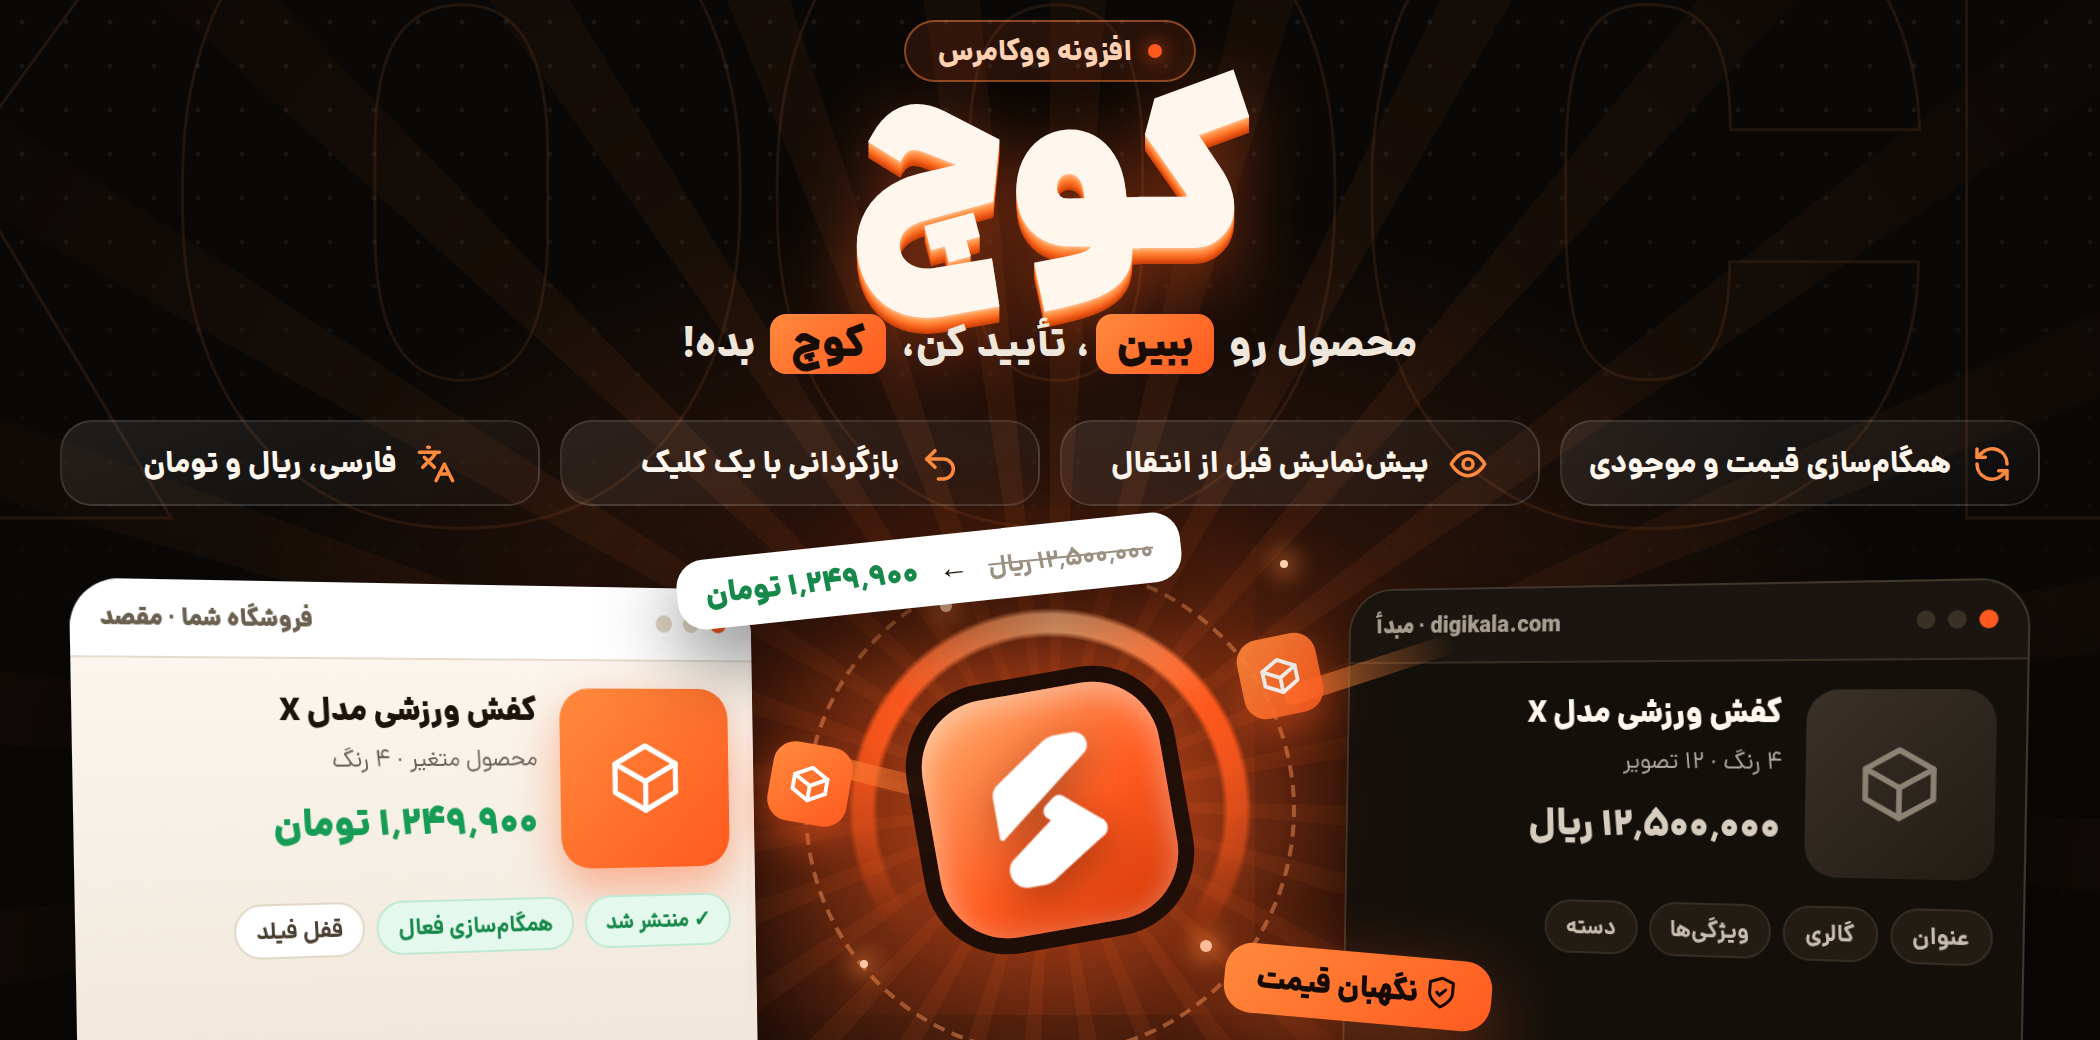
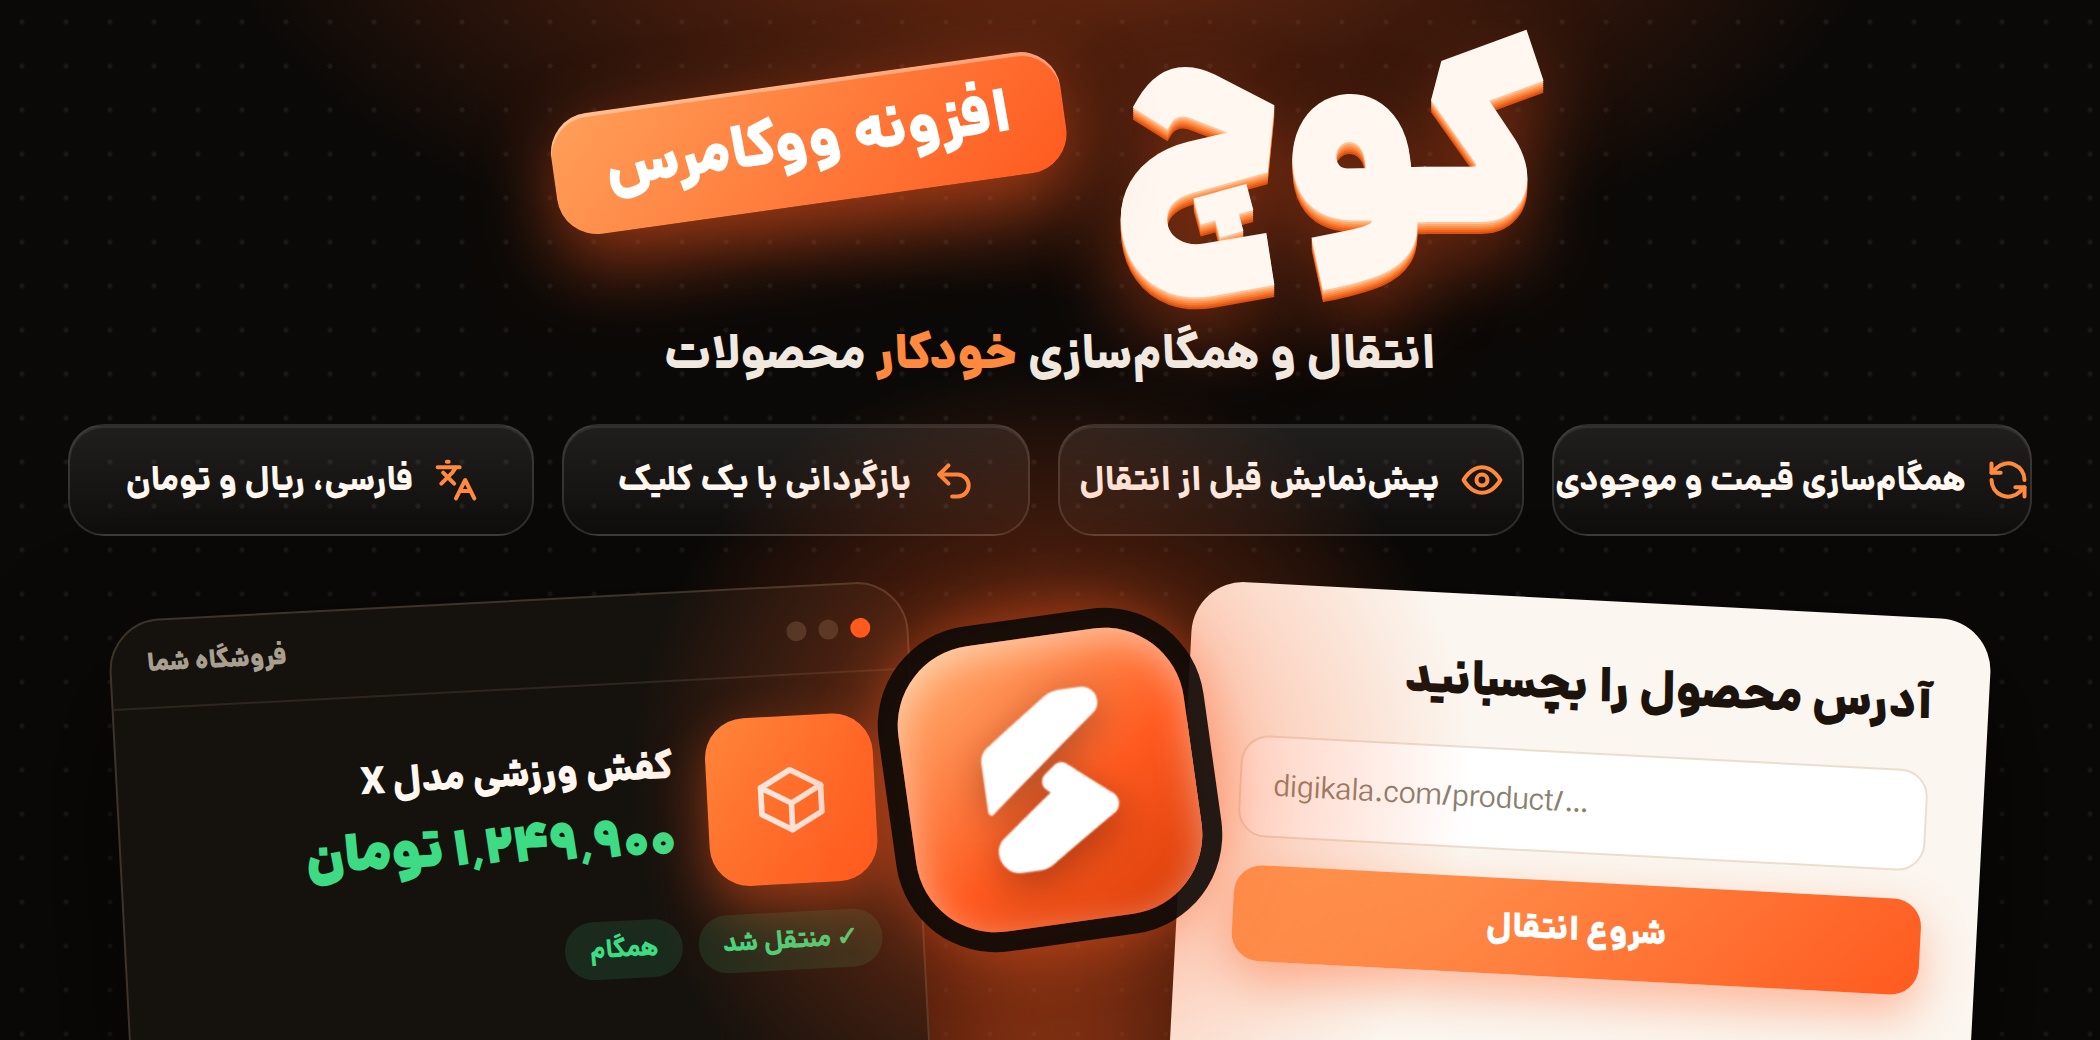
Kooch thumbnail: simpler, bolder version of the original layout
Claude-Session: https://claude.ai/code/session_01HjGiyHhZHcoV6ExRpRRqKD

diff --git a/kooch-showcase/thumbnail.html b/kooch-showcase/thumbnail.html
@@ -1,86 +1,54 @@
 <!doctype html><html lang="fa" dir="rtl"><head><meta charset="utf-8"><title>کوچ | تامنیل</title>
 <style>
 @font-face{font-family:Dana;src:url(DanaVF.ttf);font-weight:100 1000}
-:root{--o:#ff5a1f;--o2:#ff8a3d;--bg:#0a0806;--line:#372e23;--tx:#fff6ee;--mu:#a89f91;--ok:#3ddc84}
+:root{--o:#ff5a1f;--o2:#ff8a3d;--bg:#0b0907;--tx:#fff7f0;--mu:#a89f91;--ok:#22c56b}
 *{box-sizing:border-box;margin:0;padding:0}
 body{background:#000;font-family:Dana,Tahoma,sans-serif;color:var(--tx)}
-.i{width:1.15em;height:1.15em;vertical-align:-.22em;fill:none;stroke:currentColor;stroke-width:2.1;stroke-linecap:round;stroke-linejoin:round}
-.t{width:1050px;height:520px;position:relative;overflow:hidden;background:var(--bg)}
-.rays{position:absolute;left:50%;top:400px;width:1800px;height:1800px;margin:-900px 0 0 -900px;background:repeating-conic-gradient(from 0deg,rgba(255,120,50,.10) 0 4deg,transparent 4deg 13deg);-webkit-mask:radial-gradient(circle,#000 0,rgba(0,0,0,.6) 25%,transparent 55%);mask:radial-gradient(circle,#000 0,rgba(0,0,0,.6) 25%,transparent 55%)}
-.glow{position:absolute;left:50%;top:400px;width:900px;height:600px;margin:-300px 0 0 -450px;background:radial-gradient(closest-side,rgba(255,90,31,.55),rgba(255,90,31,.12) 55%,transparent)}
-.grid{position:absolute;inset:0;background:radial-gradient(rgba(255,255,255,.07) 1.2px,transparent 1.4px) 0 0/22px 22px;-webkit-mask:linear-gradient(#000,transparent 70%);mask:linear-gradient(#000,transparent 70%)}
-.wm{position:absolute;top:-70px;left:50%;transform:translateX(-50%);font-size:420px;font-weight:950;line-height:1;color:transparent;-webkit-text-stroke:1.5px rgba(255,138,61,.10);white-space:nowrap;letter-spacing:-8px}
-.head{position:absolute;top:10px;left:0;right:0;text-align:center}
-.eyebrow{display:inline-flex;align-items:center;gap:8px;font-size:14.5px;font-weight:800;color:#ffd2b3;border:1px solid rgba(255,138,61,.45);background:rgba(255,90,31,.12);padding:4px 16px;border-radius:99px}
-.eyebrow::before{content:"";width:7px;height:7px;border-radius:50%;background:var(--o);box-shadow:0 0 10px var(--o)}
-h1{font-size:104px;font-weight:950;line-height:1.12;letter-spacing:-2px;color:var(--tx);text-shadow:0 1px 0 #ffb27a,0 2px 0 #ff9a55,0 3px 0 #ff8a3d,0 4px 0 #ff7a30,0 5px 0 #f76a22,0 6px 0 #ee5c18,0 7px 0 #e04f10,0 8px 0 #cf440b,0 14px 40px rgba(255,90,31,.55);margin-top:-4px}
-.sub{font-size:21px;font-weight:800;color:#efe7dc;margin-top:4px}
-.sub b{color:#1a0d05;background:linear-gradient(135deg,var(--o2),var(--o));padding:0 10px;border-radius:8px;margin:0 3px}
-.feats{position:absolute;top:210px;left:30px;right:30px;display:flex;gap:10px}
-.f{flex:1;display:flex;align-items:center;justify-content:center;gap:10px;padding:10px 12px;border-radius:16px;background:linear-gradient(160deg,rgba(255,255,255,.09),rgba(255,255,255,.02));border:1px solid rgba(255,255,255,.12);font-size:15px;font-weight:800;white-space:nowrap}
-.f .i{color:var(--o2);width:20px;height:20px}
-/* panels */
-.p{position:absolute;top:292px;width:350px;height:260px;border-radius:24px;overflow:hidden;box-shadow:0 30px 70px rgba(0,0,0,.75)}
-.src{right:40px;background:#13100c;border:1px solid #40362a;transform:perspective(900px) rotateY(-14deg) rotate(1deg)}
-.dst{left:40px;background:linear-gradient(180deg,#fdf8f1,#efe6d9);color:#1b130c;transform:perspective(900px) rotateY(14deg) rotate(-1deg)}
-.bar{display:flex;gap:6px;align-items:center;padding:10px 14px;font-size:12px;font-weight:700}
-.src .bar{background:#1a1510;border-bottom:1px solid var(--line);color:var(--mu)}
-.dst .bar{background:#fff;border-bottom:1px solid #e6dccd;color:#6b604f}
-.bar i{width:9px;height:9px;border-radius:50%;background:#3a3126}.bar i:first-child{background:var(--o)}.dst .bar i{background:#e0d5c5}.dst .bar i:first-child{background:var(--o)}
-.bar b{margin-inline-start:auto}
-.pb{padding:14px;display:flex;gap:12px}
-.im{width:92px;height:92px;border-radius:16px;flex:none;display:grid;place-items:center}
-.im .i{width:44px;height:44px;stroke-width:1.5}
-.src .im{background:linear-gradient(135deg,#3a3128,#221c15);color:#8d8374}
-.dst .im{background:linear-gradient(135deg,var(--o2),var(--o));color:#fff;box-shadow:0 10px 24px rgba(255,90,31,.45)}
-.nm{font-size:16px;font-weight:900}.mt{font-size:12px;margin-top:4px;opacity:.65}
-.pr{font-size:19px;font-weight:900;margin-top:10px}
-.src .pr{color:#d6cdbf}.dst .pr{color:#169c55}
-.tags{display:flex;flex-wrap:wrap;gap:6px;padding:0 14px}
-.tags span{font-size:11.5px;font-weight:700;padding:4px 10px;border-radius:99px}
-.src .tags span{background:#221c15;border:1px solid var(--line);color:#c9bfb1}
-.dst .tags span{background:#fff;border:1px solid #e3d8c8;color:#4a3f31}
-.dst .tags span.g{background:#e5f8ee;border-color:#bfe9d1;color:#16884a}
-/* portal */
-.portal{position:absolute;left:50%;top:300px;width:210px;height:210px;margin-left:-105px;border-radius:50%;background:conic-gradient(from 200deg,transparent 0 10%,#ff5a1f 30%,#ffc08a 45%,#ff5a1f 60%,transparent 80%);-webkit-mask:radial-gradient(circle,transparent 58%,#000 60%,#000 66%,transparent 68%);mask:radial-gradient(circle,transparent 58%,#000 60%,#000 66%,transparent 68%);filter:drop-shadow(0 0 18px #ff5a1f)}
-.ring2{position:absolute;left:50%;top:282px;width:246px;height:246px;margin-left:-123px;border-radius:50%;border:2px dashed rgba(255,160,100,.45)}
-.core{position:absolute;left:50%;top:345px;width:120px;height:120px;margin-left:-60px;border-radius:34px;background:linear-gradient(145deg,#ffb070,var(--o) 58%,#d33606);display:grid;place-items:center;box-shadow:0 0 0 8px rgba(10,8,6,.85),0 0 120px rgba(255,90,31,.95),inset 0 4px 16px rgba(255,255,255,.45);transform:rotate(-10deg);z-index:5}
-.core img{width:76px;filter:brightness(0) invert(1) drop-shadow(0 6px 10px rgba(0,0,0,.3))}
-/* flying boxes */
-.fly{position:absolute;width:40px;height:40px;border-radius:11px;display:grid;place-items:center;color:#fff;background:linear-gradient(135deg,var(--o2),var(--o));box-shadow:0 8px 20px rgba(255,90,31,.5);z-index:6}
-.fly .i{width:22px;height:22px}
-.trail{position:absolute;height:10px;border-radius:99px;background:linear-gradient(90deg,rgba(255,138,61,.7),rgba(255,138,61,0));z-index:5}
-.spark{position:absolute;width:6px;height:6px;border-radius:50%;background:#ffd2b3;box-shadow:0 0 12px 3px rgba(255,138,61,.9)}
-/* ticket */
-.ticket{position:absolute;z-index:7;left:338px;top:268px;background:#fff;color:#1b130c;border-radius:14px;padding:7px 14px;font-weight:900;font-size:15px;box-shadow:0 14px 40px rgba(0,0,0,.55);transform:rotate(-6deg);display:flex;gap:10px;align-items:center}
-.ticket s{color:#9b9082;font-size:12.5px;font-weight:700}
-.ticket em{font-style:normal;color:#16884a}
-.chip2{position:absolute;z-index:7;left:612px;top:476px;background:linear-gradient(135deg,var(--o2),var(--o));color:#160b04;border-radius:14px;padding:7px 16px;font-weight:900;font-size:15px;box-shadow:0 14px 40px rgba(255,90,31,.45);transform:rotate(5deg)}
+.i{width:1.15em;height:1.15em;vertical-align:-.22em;fill:none;stroke:currentColor;stroke-width:2.2;stroke-linecap:round;stroke-linejoin:round}
+.t{width:1050px;height:520px;position:relative;overflow:hidden;background:
+ radial-gradient(600px 300px at 50% -60px,rgba(255,90,31,.45),transparent 70%),
+ radial-gradient(520px 320px at 50% 115%,rgba(255,90,31,.55),transparent 70%),
+ radial-gradient(rgba(255,255,255,.06) 1.2px,transparent 1.4px) 0 0/22px 22px,var(--bg)}
+.head{position:absolute;top:18px;left:0;right:0;display:flex;justify-content:center;align-items:center;gap:22px}
+h1{font-size:112px;font-weight:950;line-height:1.1;letter-spacing:-2px;color:var(--tx);text-shadow:0 1px 0 #ffc39a,0 2px 0 #ffa86b,0 3px 0 #ff9048,0 4px 0 #f97a30,0 5px 0 #ec641d,0 6px 0 #dc5212,0 18px 40px rgba(255,90,31,.5)}
+.badge{background:linear-gradient(135deg,#ffa05a,var(--o));color:#fff;font-weight:900;font-size:30px;padding:8px 26px 10px;border-radius:20px;transform:rotate(-8deg) translateY(-8px);box-shadow:0 14px 40px rgba(255,90,31,.6),inset 0 2px 0 rgba(255,255,255,.35)}
+.sub{position:absolute;top:160px;left:0;right:0;text-align:center;font-size:24px;font-weight:800;color:#f1e9df}
+.sub b{color:var(--o2)}
+.pills{position:absolute;top:212px;left:34px;right:34px;display:flex;gap:14px}
+.pill{flex:1;display:flex;align-items:center;justify-content:center;gap:10px;height:56px;border-radius:18px;background:linear-gradient(180deg,rgba(255,255,255,.09),rgba(255,255,255,.025));border:1px solid rgba(255,255,255,.13);font-size:17px;font-weight:800;white-space:nowrap;box-shadow:inset 0 1px 0 rgba(255,255,255,.08)}
+.pill .i{color:var(--o2);width:22px;height:22px}
+.p{position:absolute;top:300px;height:260px;border-radius:26px;overflow:hidden;box-shadow:0 30px 70px rgba(0,0,0,.7)}
+.dark{left:60px;width:400px;background:#15110d;border:1px solid #3d3328;transform:rotate(-3deg)}
+.light{right:60px;width:400px;background:#fbf6ef;color:#1b130c;transform:rotate(3deg);padding:26px 28px}
+.bar{display:flex;gap:6px;align-items:center;padding:12px 18px;border-bottom:1px solid #2e261d;font-size:13px;color:var(--mu);font-weight:700}
+.bar i{width:10px;height:10px;border-radius:50%;background:#3a3126}.bar i:first-child{background:var(--o)}.bar b{margin-inline-start:auto}
+.prod{display:flex;gap:16px;align-items:center;padding:20px 20px 14px}
+.im{width:84px;height:84px;border-radius:20px;flex:none;display:grid;place-items:center;background:linear-gradient(135deg,var(--o2),var(--o));color:#fff;box-shadow:0 10px 26px rgba(255,90,31,.45)}
+.im .i{width:40px;height:40px;stroke-width:1.7}
+.nm{font-size:19px;font-weight:900}.pr{font-size:24px;font-weight:950;color:#3ddc84;margin-top:6px}
+.ok{margin:0 20px;display:flex;gap:8px}
+.ok span{font-size:13px;font-weight:800;padding:5px 12px;border-radius:99px;background:rgba(61,220,132,.13);color:#3ddc84}
+.light h3{font-size:24px;font-weight:900}
+.in{margin-top:16px;background:#fff;border:1.5px solid #eadfcf;border-radius:14px;padding:14px 16px;color:#8a7f70;font-size:15px;direction:ltr;text-align:left}
+.cta{margin-top:14px;text-align:center;background:linear-gradient(135deg,#ffa05a,var(--o));color:#fff;font-weight:900;padding:12px;border-radius:14px;font-size:17px;box-shadow:0 10px 24px rgba(255,90,31,.4)}
+.core{position:absolute;left:50%;top:318px;margin-left:-72px;width:144px;height:144px;border-radius:40px;background:linear-gradient(145deg,#ffb87a,var(--o) 58%,#d63a06);display:grid;place-items:center;box-shadow:0 0 0 10px rgba(11,9,7,.9),0 0 40px rgba(255,90,31,.7),inset 0 5px 18px rgba(255,255,255,.45);transform:rotate(-8deg);z-index:5}
+.core img{width:92px;filter:brightness(0) invert(1) drop-shadow(0 6px 10px rgba(0,0,0,.3))}
+.halo{position:absolute;left:50%;top:390px;width:420px;height:420px;margin:-210px 0 0 -210px;border-radius:50%;background:radial-gradient(closest-side,rgba(255,90,31,.75),rgba(255,90,31,.25) 50%,transparent);z-index:3}
+.arr{position:absolute;top:382px;z-index:4;color:#ffb07a;font-size:28px;font-weight:900;text-shadow:0 0 14px var(--o)}
 </style></head><body><svg width="0" height="0" style="position:absolute" aria-hidden="true"><symbol id="i-link" viewBox="0 0 24 24"><path d="M10 13a5 5 0 0 0 7.5.5l3-3a5 5 0 0 0-7-7l-1.7 1.7"/><path d="M14 11a5 5 0 0 0-7.5-.5l-3 3a5 5 0 0 0 7 7l1.7-1.7"/></symbol><symbol id="i-eye" viewBox="0 0 24 24"><path d="M2 12s3.6-7 10-7 10 7 10 7-3.6 7-10 7S2 12 2 12z"/><circle cx="12" cy="12" r="3"/></symbol><symbol id="i-box" viewBox="0 0 24 24"><path d="M21 8 12 3 3 8v8l9 5 9-5z"/><path d="M3 8l9 5 9-5M12 13v8"/></symbol><symbol id="i-globe" viewBox="0 0 24 24"><circle cx="12" cy="12" r="10"/><path d="M2 12h20M12 2a15 15 0 0 1 0 20M12 2a15 15 0 0 0 0 20"/></symbol><symbol id="i-target" viewBox="0 0 24 24"><circle cx="12" cy="12" r="10"/><circle cx="12" cy="12" r="6"/><circle cx="12" cy="12" r="2"/></symbol><symbol id="i-cog" viewBox="0 0 24 24"><circle cx="12" cy="12" r="3"/><path d="M19.4 15a1.7 1.7 0 0 0 .3 1.8l.1.1a2 2 0 1 1-2.8 2.8l-.1-.1a1.7 1.7 0 0 0-1.8-.3 1.7 1.7 0 0 0-1 1.5V21a2 2 0 1 1-4 0v-.1a1.7 1.7 0 0 0-1.1-1.5 1.7 1.7 0 0 0-1.8.3l-.1.1a2 2 0 1 1-2.8-2.8l.1-.1a1.7 1.7 0 0 0 .3-1.8 1.7 1.7 0 0 0-1.5-1H3a2 2 0 1 1 0-4h.1a1.7 1.7 0 0 0 1.5-1.1 1.7 1.7 0 0 0-.3-1.8l-.1-.1a2 2 0 1 1 2.8-2.8l.1.1a1.7 1.7 0 0 0 1.8.3H9a1.7 1.7 0 0 0 1-1.5V3a2 2 0 1 1 4 0v.1a1.7 1.7 0 0 0 1 1.5 1.7 1.7 0 0 0 1.8-.3l.1-.1a2 2 0 1 1 2.8 2.8l-.1.1a1.7 1.7 0 0 0-.3 1.8V9a1.7 1.7 0 0 0 1.5 1H21a2 2 0 1 1 0 4h-.1a1.7 1.7 0 0 0-1.5 1z"/></symbol><symbol id="i-coins" viewBox="0 0 24 24"><circle cx="8" cy="8" r="6"/><path d="M18.1 10.4A6 6 0 1 1 10.4 18.1M7 6h1v4"/></symbol><symbol id="i-shield" viewBox="0 0 24 24"><path d="M12 22s8-4 8-10V5l-8-3-8 3v7c0 6 8 10 8 10z"/><path d="m9 12 2 2 4-4"/></symbol><symbol id="i-refresh" viewBox="0 0 24 24"><path d="M21 12a9 9 0 0 0-15.5-6.3L3 8"/><path d="M3 3v5h5"/><path d="M3 12a9 9 0 0 0 15.5 6.3L21 16"/><path d="M16 16h5v5"/></symbol><symbol id="i-lock" viewBox="0 0 24 24"><rect x="4" y="11" width="16" height="10" rx="2"/><path d="M8 11V7a4 4 0 0 1 8 0v4"/></symbol><symbol id="i-undo" viewBox="0 0 24 24"><path d="M9 14 4 9l5-5"/><path d="M4 9h10a6 6 0 0 1 0 12h-3"/></symbol><symbol id="i-alert" viewBox="0 0 24 24"><path d="M10.3 3.9 1.8 18a2 2 0 0 0 1.7 3h17a2 2 0 0 0 1.7-3L13.7 3.9a2 2 0 0 0-3.4 0z"/><path d="M12 9v4M12 17h.01"/></symbol><symbol id="i-bell" viewBox="0 0 24 24"><path d="M18 8a6 6 0 0 0-12 0c0 7-3 9-3 9h18s-3-2-3-9"/><path d="M13.7 21a2 2 0 0 1-3.4 0"/></symbol><symbol id="i-mail" viewBox="0 0 24 24"><rect x="2" y="4" width="20" height="16" rx="2"/><path d="m22 7-10 6L2 7"/></symbol><symbol id="i-send" viewBox="0 0 24 24"><path d="m22 2-7 20-4-9-9-4z"/><path d="M22 2 11 13"/></symbol><symbol id="i-chat" viewBox="0 0 24 24"><path d="M21 15a2 2 0 0 1-2 2H7l-4 4V5a2 2 0 0 1 2-2h14a2 2 0 0 1 2 2z"/></symbol><symbol id="i-hook" viewBox="0 0 24 24"><circle cx="12" cy="5" r="3"/><path d="M12 8v5a4 4 0 0 0 8 0M20 13h-3"/><circle cx="5" cy="17" r="3"/><path d="M5 14c0-3 3-6 7-6"/></symbol><symbol id="i-spark" viewBox="0 0 24 24"><path d="M12 3l1.9 5.1L19 10l-5.1 1.9L12 17l-1.9-5.1L5 10l5.1-1.9z"/><path d="M19 15l.7 1.8L21.5 17.5l-1.8.7L19 20l-.7-1.8-1.8-.7 1.8-.7z"/></symbol><symbol id="i-check" viewBox="0 0 24 24"><path d="M20 6 9 17l-5-5"/></symbol><symbol id="i-lang" viewBox="0 0 24 24"><path d="m5 8 6 6M4 14l6-6 2-3M2 5h12M7 2h1M22 22l-5-10-5 10M14 18h6"/></symbol></svg>
 
 <div class="t">
- <div class="rays"></div><div class="glow"></div><div class="grid"></div>
- <div class="wm">KOOCH</div>
- <div class="head"><div class="eyebrow">افزونه ووکامرس</div><h1>کوچ</h1><div class="sub">محصول رو <b>ببین</b>، تأیید کن، <b>کوچ</b> بده!</div></div>
- <div class="feats">
-  <div class="f"><svg class="i"><use href="#i-refresh"/></svg>همگامسازی قیمت و موجودی</div>
-  <div class="f"><svg class="i"><use href="#i-eye"/></svg>پیشنمایش قبل از انتقال</div>
-  <div class="f"><svg class="i"><use href="#i-undo"/></svg>بازگردانی با یک کلیک</div>
-  <div class="f"><svg class="i"><use href="#i-lang"/></svg>فارسی، ریال و تومان</div>
+ <div class="head"><h1>کوچ</h1><div class="badge">افزونه ووکامرس</div></div>
+ <div class="sub">انتقال و همگامسازی <b>خودکار</b> محصولات</div>
+ <div class="pills">
+  <div class="pill"><svg class="i"><use href="#i-refresh"/></svg>همگامسازی قیمت و موجودی</div>
+  <div class="pill"><svg class="i"><use href="#i-eye"/></svg>پیشنمایش قبل از انتقال</div>
+  <div class="pill"><svg class="i"><use href="#i-undo"/></svg>بازگردانی با یک کلیک</div>
+  <div class="pill"><svg class="i"><use href="#i-lang"/></svg>فارسی، ریال و تومان</div>
  </div>
- <div class="p src"><div class="bar"><i></i><i></i><i></i><b>digikala.com · مبدأ</b></div>
-  <div class="pb"><div class="im"><svg class="i"><use href="#i-box"/></svg></div><div><div class="nm">کفش ورزشی مدل X</div><div class="mt">۴ رنگ · ۱۲ تصویر</div><div class="pr">۱۲٬۵۰۰٬۰۰۰ ریال</div></div></div>
-  <div class="tags"><span>عنوان</span><span>گالری</span><span>ویژگیها</span><span>دسته</span></div></div>
- <div class="p dst"><div class="bar"><i></i><i></i><i></i><b>فروشگاه شما · مقصد</b></div>
-  <div class="pb"><div class="im"><svg class="i"><use href="#i-box"/></svg></div><div><div class="nm">کفش ورزشی مدل X</div><div class="mt">محصول متغیر · ۴ رنگ</div><div class="pr">۱٬۲۴۹٬۹۰۰ تومان</div></div></div>
-  <div class="tags"><span class="g">✓ منتشر شد</span><span class="g">همگامسازی فعال</span><span>قفل فیلد</span></div></div>
- <div class="ring2"></div><div class="portal"></div>
- <div class="trail" style="left:640px;top:330px;width:90px;transform:rotate(-18deg)"></div>
- <div class="fly" style="left:620px;top:318px;transform:rotate(-12deg);opacity:.9"><svg class="i"><use href="#i-box"/></svg></div>
- <div class="trail" style="left:418px;top:388px;width:80px;transform:rotate(14deg)"></div>
- <div class="fly" style="left:385px;top:372px;transform:rotate(10deg)"><svg class="i"><use href="#i-box"/></svg></div>
- <div class="core"><img src="kooch-icon.png" alt=""></div>
- <div class="spark" style="left:470px;top:300px"></div><div class="spark" style="left:600px;top:470px"></div><div class="spark" style="left:430px;top:480px;width:4px;height:4px"></div><div class="spark" style="left:640px;top:280px;width:4px;height:4px"></div>
- <div class="ticket"><s>۱۲٬۵۰۰٬۰۰۰ ریال</s>← <em>۱٬۲۴۹٬۹۰۰ تومان</em></div>
- <div class="chip2"><svg class="i"><use href="#i-shield"/></svg> نگهبان قیمت</div>
+ <div class="p light"><h3>آدرس محصول را بچسبانید</h3><div class="in">digikala.com/product/…</div><div class="cta">شروع انتقال</div></div>
+ <div class="p dark"><div class="bar"><i></i><i></i><i></i><b>فروشگاه شما</b></div>
+  <div class="prod"><div class="im"><svg class="i"><use href="#i-box"/></svg></div><div><div class="nm">کفش ورزشی مدل X</div><div class="pr">۱٬۲۴۹٬۹۰۰ تومان</div></div></div>
+  <div class="ok"><span>✓ منتقل شد</span><span>همگام</span></div></div>
+ <div class="halo"></div><div class="core"><img src="kooch-icon.png" alt=""></div>
 </div></body></html>
